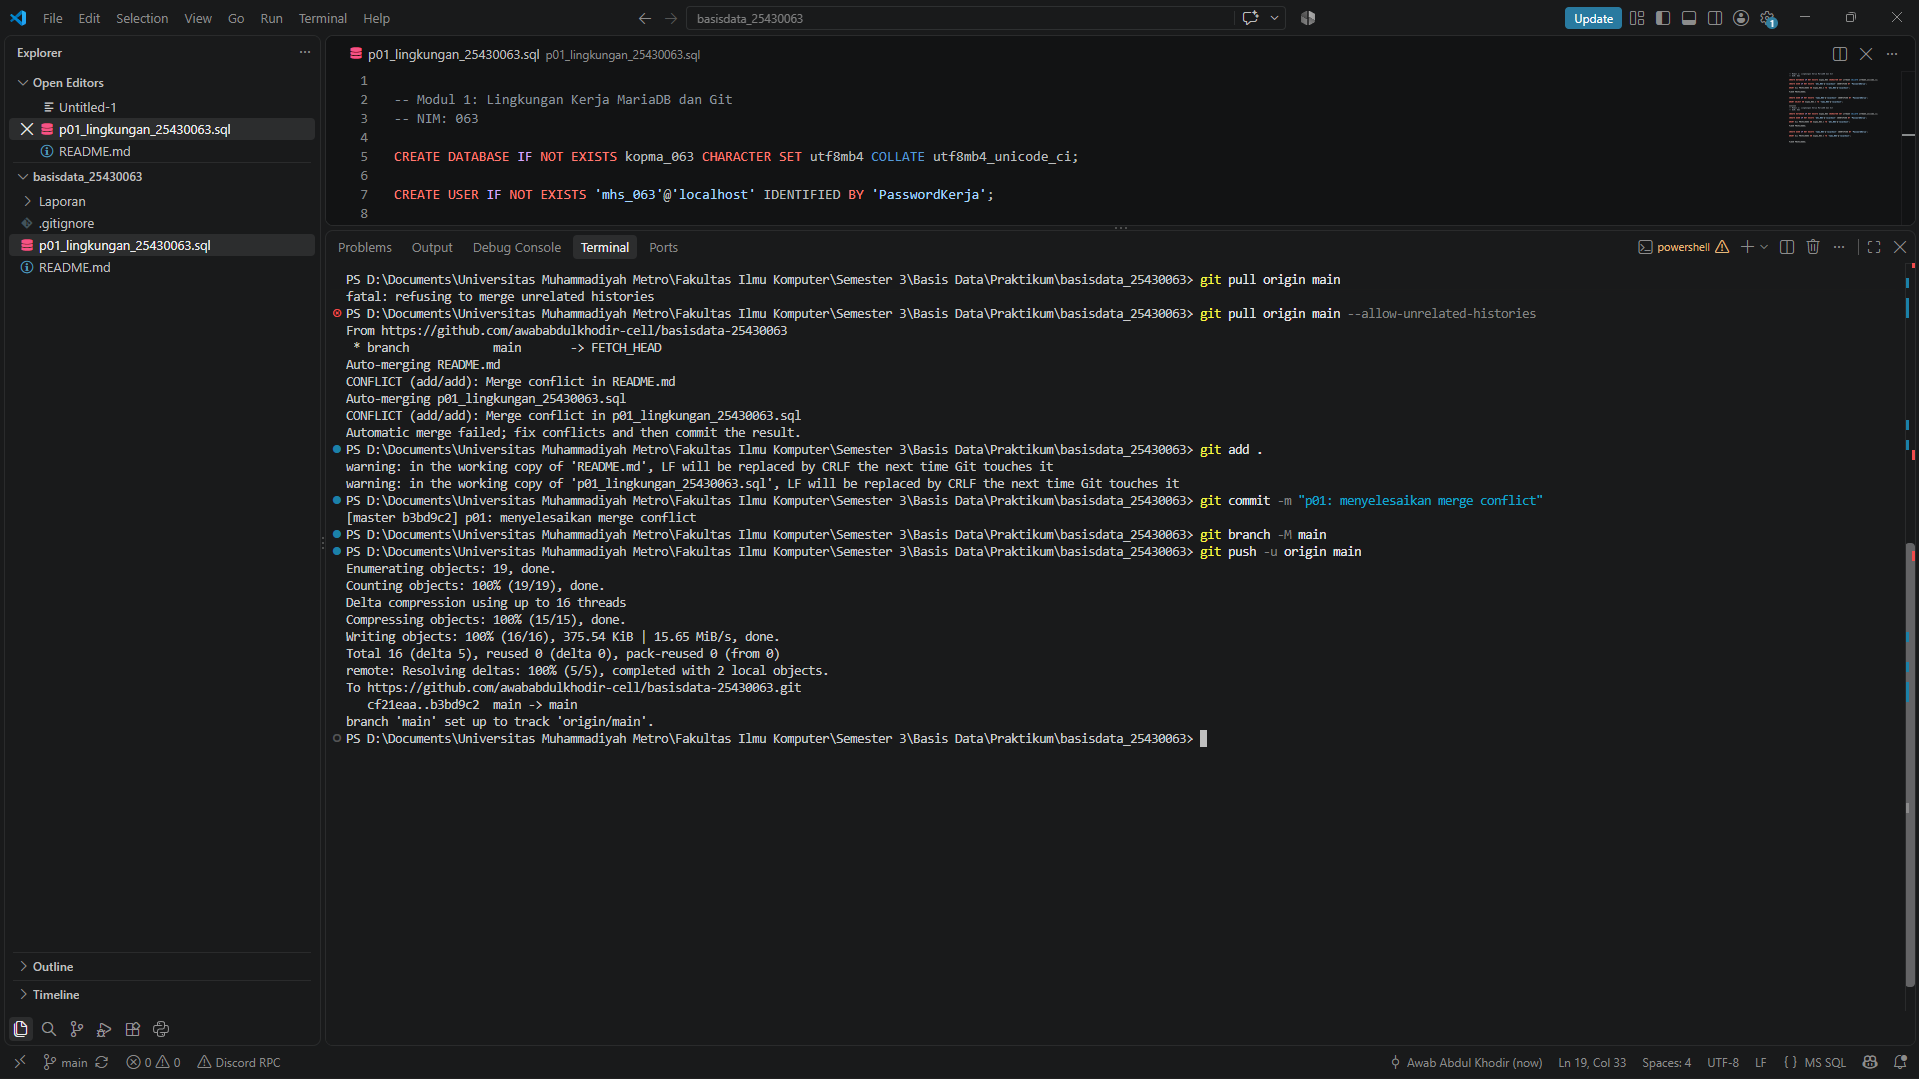
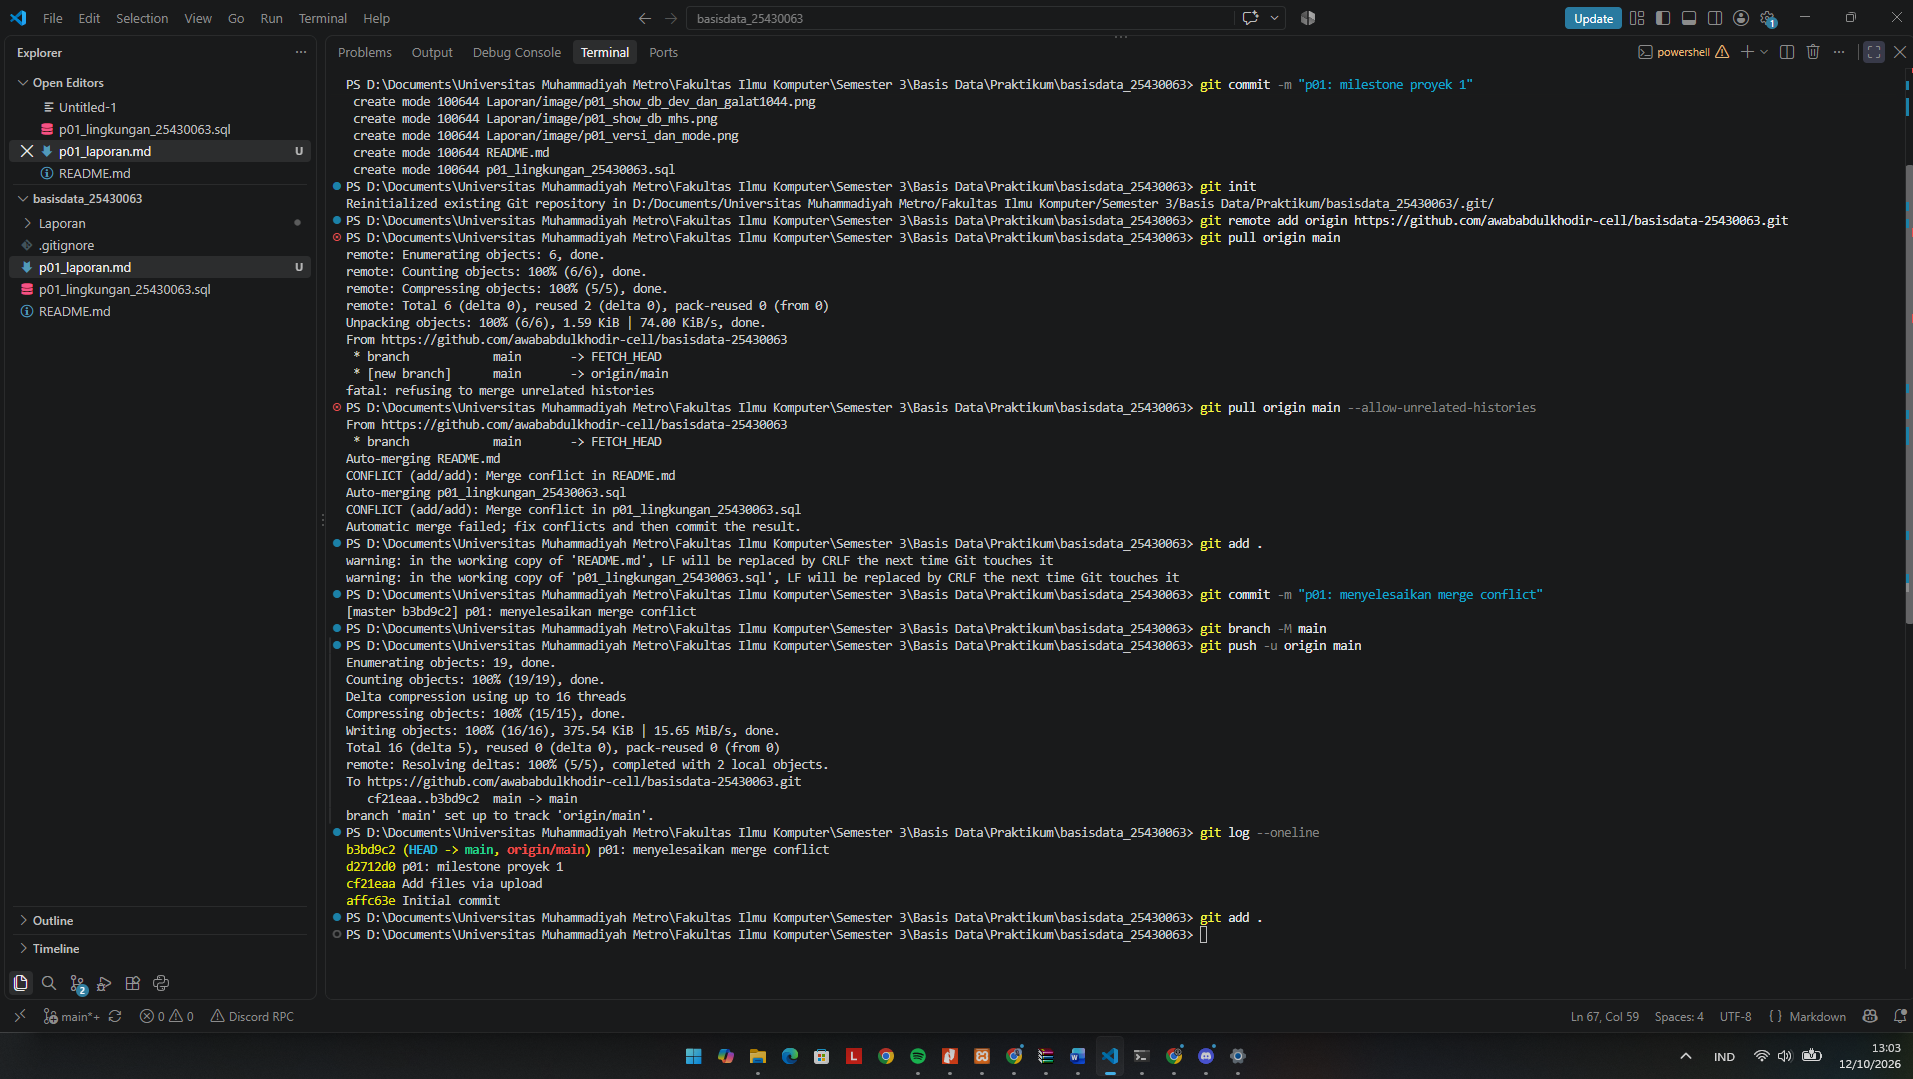
menambahkan file laporan p01_laporan.md

diff --git a/p01_laporan.md b/p01_laporan.md
@@ -1,0 +1,77 @@
+# Laporan Praktikum Basis Data
+**Nama:** Awab Abdul Khodir
+**NIM:** 25430063
+**Kelas:** C
+
+## 1. Tujuan Praktikum
+Praktikum ini bertujuan agar mahasiswa dapat menjalankan layanan MariaDB melalui XAMPP, menghubungkan klien melalui CLI maupun phpMyAdmin, mengamankan akun root dan membatasi hak akses akun kerja, serta mencatat progres awal basis data proyek ke repositori GitHub.
+
+## 2. Ringkasan Dasar Teori
+Basis data adalah sekumpulan data terorganisasi yang dikelola oleh Sistem Manajemen Basis Data (DBMS) seperti MariaDB. MariaDB memakai arsitektur klien-server di mana *server* berjalan di latar belakang (pada port 3306), dan pengguna berinteraksi melalui *klien* seperti *Command Prompt* atau aplikasi web phpMyAdmin. Dalam penggunaannya, diterapkan prinsip keamanan *least privilege* (hak akses minimum), di mana akun kerja hanya diberikan akses pada basis data yang dimilikinya saja, bukan akses penuh seperti *root*. Selain itu, riwayat seluruh pekerjaan dicatat secara bertahap menggunakan *version control system* Git.
+
+## 3. Hasil Langkah Percobaan
+*(Catatan: Gambar disimpan di folder `laporan/img/`)*
+
+*   **Verifikasi Versi MariaDB:**
+    ![Cek Versi dan Akun](img/p01_versi_dan_mode.png)
+    *Keterangan:* Hasil eksekusi `SELECT VERSION(), CURRENT_USER();` dan `SELECT @@sql_mode;` untuk memastikan server berjalan pada mode ketat.
+*   **Akses Database sebagai `mhs_063`:**
+    ![Show Databases](img/p01_show_db_mhs.png)
+    *Keterangan:* Eksekusi `SHOW DATABASES;` menggunakan akun `mhs_063` yang hanya menampilkan basis data `kopma_063` dan `information_schema`.
+*   **Login phpMyAdmin (Mode Cookie):**
+    ![Login phpMyAdmin](img/p01_phpmyadmin_cookie.png)
+    *Keterangan:* Tampilan halaman login phpMyAdmin setelah konfigurasi `auth_type` diubah menjadi `cookie`.
+*   **Push Git Pertama:**
+    ![Git Push](img/p01_git_push.png)
+    *Keterangan:* Repositori lokal berhasil dikirim (*push*) ke GitHub untuk pertama kalinya.
+
+## 4. Jawaban Titik Analisis
+*   **Titik Analisis 1:** Karena MariaDB merupakan *fork* dari MySQL, dokumentasi lama MySQL masih relevan untuk mencari panduan sintaks dasar SQL. Namun, untuk fitur-fitur yang lebih baru, pengaturan mode ketat (*strict mode*), serta penanganan kode galat spesifik, kita harus merujuk pada dokumentasi resmi MariaDB agar mendapatkan solusi yang akurat.
+*   **Titik Analisis 2:** Jika mencoba masuk menggunakan perintah `mysql -u root` tanpa opsi `-p` padahal akun tersebut sudah diberi *password*, server akan memunculkan `ERROR 1045 (28000): Access denied for user 'root'@'localhost' (using password: NO)`. Bagian yang memberitahu bahwa klien tidak mengirimkan password adalah keterangan `(using password: NO)` di akhir pesan tersebut.
+*   **Titik Analisis 3:** Akun `mhs_063` tetap bisa melihat `information_schema` karena itu adalah database sistem bawaan yang berisi metadata dan bebas dibaca secara *read-only* oleh siapa saja. Sementara itu, akses ke database `mysql` ditolak dengan `ERROR 1044` karena menyimpan kredensial server. Beda galatnya: 1044 berarti pengguna sukses *login* namun tidak berhak membuka *database* terkait, sedangkan 1045 berarti otentikasi saat *login* memang gagal akibat *password* salah atau kosong.
+*   **Titik Analisis 4:** Mode `cookie` jauh lebih aman karena memaksa pengguna mengetik *username* dan *password* setiap kali sesi baru dimulai. Pada mode `config`, *password* *root* ditulis dalam bentuk teks biasa di dalam file `config.inc.php`, sehingga siapa pun yang bisa mengakses file tersebut atau masuk ke tautan web phpMyAdmin akan otomatis memiliki akses penuh tanpa penjagaan.
+
+## 5. Hasil Latihan dan Modifikasi
+*   **Latihan 1: Membuat Akun Tamu**
+    ![Galat 1142 Akun Tamu](img/p01_galat_1142.png)
+    *Keterangan:* Pembuatan tabel dengan `CREATE TABLE uji (id INT);` menggunakan akun `tamu_063` memunculkan `ERROR 1142 (42000): CREATE command denied`. Hal ini terjadi karena akun tamu sebelumnya hanya diberikan hak `SELECT` (baca), sehingga secara keamanan ditolak saat mencoba mengubah struktur *database*.
+*   **Latihan 2: Menjalankan Skrip Berulang**
+    Skrip `p01_lingkungan_063.sql` telah dimodifikasi dengan penambahan klausa `IF NOT EXISTS` pada perintah `CREATE DATABASE` dan `CREATE USER`. Setelah diuji dengan dipanggil dua kali di CMD, tidak muncul lagi `ERROR 1050 Table already exists`.
+
+## 6. Tugas Mandiri: Milestone Proyek 1
+*   **Tema Proyek:** Toko Daring (berdasarkan pembagian tema dari 2 digit akhir NIM 63).
+*   **Kesiapan Lingkungan Proyek:** Basis data `toko_063` dan akun pengembang `dev_063` telah sukses dibuat.
+*   **Bukti Pembatasan Akses Akun Proyek:**
+    ![Galat 1044 Akun Dev](img/p01_show_db_dev_dan_galat1044.png)
+    *Keterangan:* Muncul `ERROR 1044` saat akun `dev_063` diuji untuk mengakses `kopma_063`, membuktikan hak aksesnya sudah dibatasi.
+*   File `README.md` telah disunting untuk memuat Identitas Proyek (Toko Wabe Mandiri 063) dan penjelasan layanannya.
+*   File `.gitignore` telah dibuat untuk mengecualikan direktori seperti `.env` dan `kredensial*.txt`.
+
+## 7. Pembahasan dan Kendala
+Selama praktikum, saya mengalami beberapa kendala. Pertama, *typo* pada penulisan `SHOW DATABASE;` yang memunculkan `ERROR 1064 (42000)` *syntax error*. Ini diselesaikan dengan mengubahnya menjadi bentuk jamak `SHOW DATABASES;`. 
+
+Kedua, saya mendapati pesan `ERROR 2002 (HY000): Can't connect to MySQL server` di Command Prompt, dan pesan merah `Error: MySQL shutdown unexpectedly` di XAMPP Control Panel. Berdasarkan pengecekan file `mysql_error.log`, masalah tersebut diakibatkan oleh *crash* pada server sehingga urutan data (`log sequence number`) sempat tidak sinkron, namun mesin InnoDB berhasil melakukan pemulihan otomatis (*recovery*). Solusinya, saya menekan tombol *Start* ulang di XAMPP dan *login* kembali setelah statusnya hijau.
+
+## 8. Kesimpulan
+Melalui praktikum modul pertama ini, saya menyimpulkan bahwa pengelolaan keamanan basis data sangat penting dilakukan sejak awal, terutama dengan pembatasan hak akses (*least privilege*) antar pengguna. Selain itu, kendala *server crash* di lapangan membuktikan urgensi pencatatan versi menggunakan Git, karena memungkinkan basis data dipulihkan kapan saja menggunakan skrip SQL yang telah disimpan.
+
+## 9. Pernyataan Penggunaan AI
+Dalam menyusun laporan ini, saya menggunakan asisten AI Google Gemini. Bantuan yang diberikan berupa identifikasi penyebab `ERROR 2002` berdasarkan pembacaan `mysql_error.log`, analisis perbedaan kode galat 1044/1142, penyuntingan format Markdown, serta koreksi *typo* sintaks, sementara keseluruhan eksekusi skrip, pembuatan *database*, dan pengambilan tangkapan layar dikerjakan sepenuhnya secara mandiri.
+
+## 10. Bukti Git
+*   **Tautan Repositori:** `https://github.com/awababdulkhoir-cell/basisdata-25430063` 
+*   **Hash Commit:** `b3bd9c2`
+
+## Checklist
+- [x] Identitas (Nama, NIM, kelas, pertemuan ke-N, tanggal pelaksanaan, nama asisten/dosen)
+- [x] Tujuan Praktikum ditulis ulang dengan bahasa sendiri
+- [x] Ringkasan Dasar Teori menggunakan pemahaman sendiri
+- [x] Tangkapan layar hasil langkah percobaan
+- [x] Semua Titik Analisis dijawab lengkap dengan alasan
+- [x] Skrip/dokumen hasil latihan beserta bukti berjalan
+- [x] Tugas Mandiri (Milestone proyek pertemuan ini)
+- [x] Pembahasan dan kendala
+- [x] Kesimpulan
+- [x] Pernyataan Penggunaan AI
+- [x] Bukti Git
+- [x] Keaslian (Tangkapan layar memperlihatkan akun ber-NIM)
